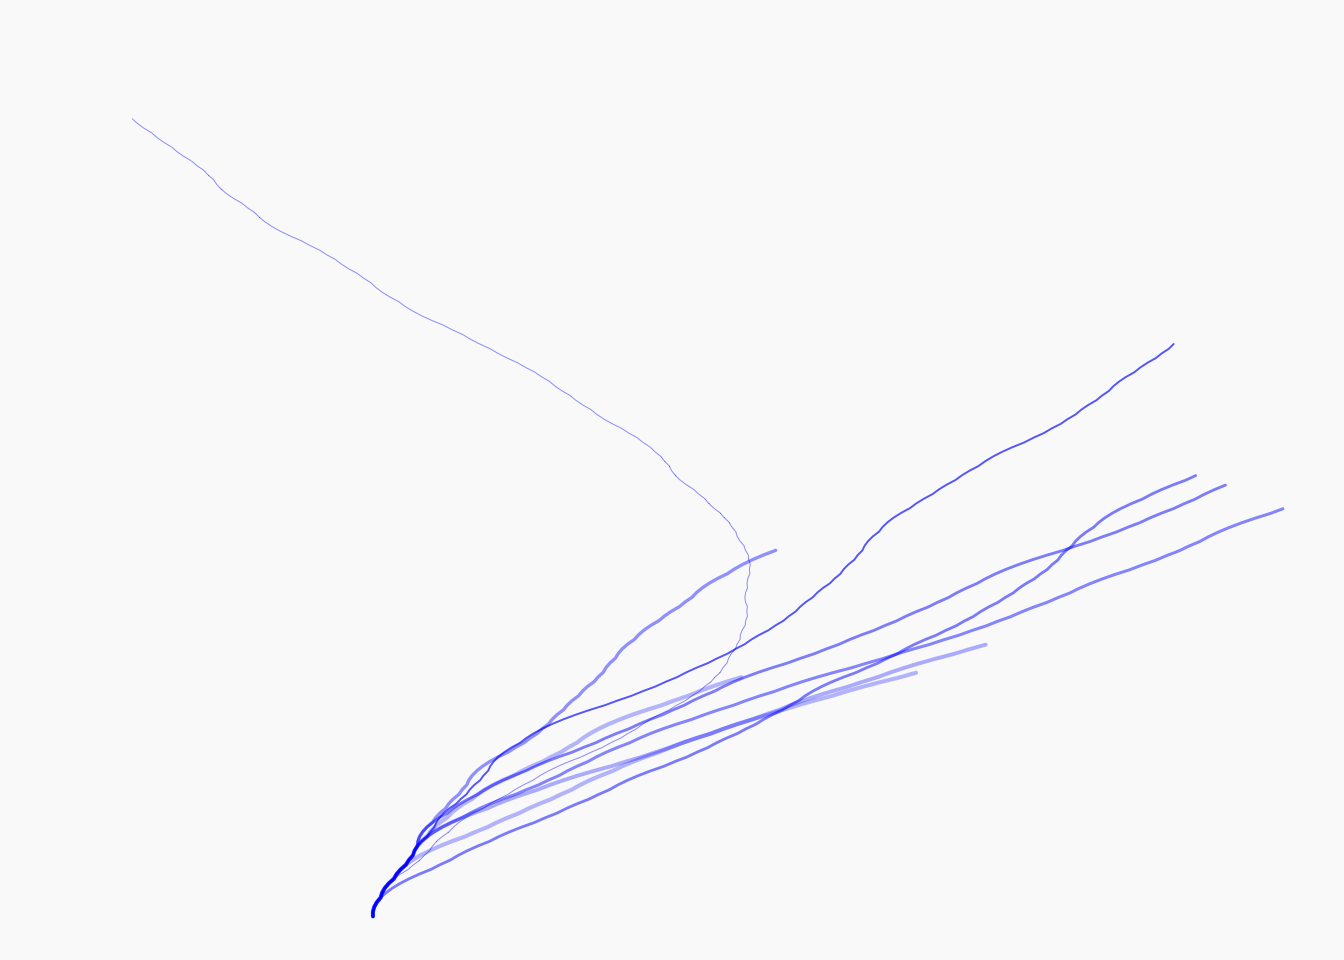
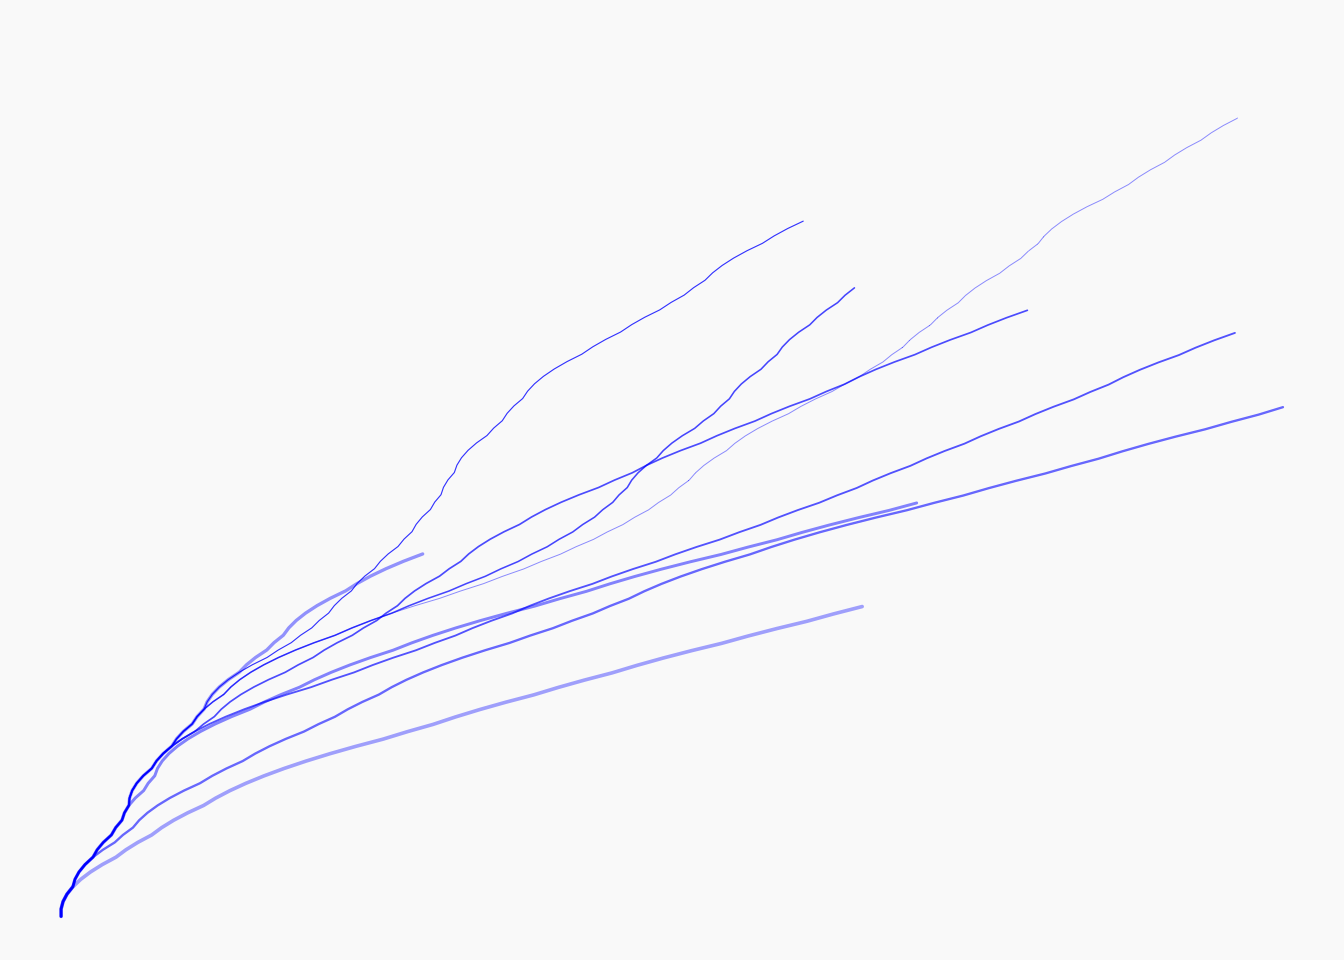
Question 4 complete

diff --git a/homework2st115.html b/homework2st115.html
@@ -179,6 +179,23 @@ pre > code.sourceCode > span > a:first-child::before { text-decoration: underlin
 </div>
 </div>
 </section>
+<section id="question-4" class="level2">
+<h2 class="anchored" data-anchor-id="question-4">Question 4</h2>
+<div class="cell">
+<div class="code-copy-outer-scaffold"><div class="sourceCode cell-code" id="cb6"><pre class="sourceCode r code-with-copy"><code class="sourceCode r"><span id="cb6-1"><a href="#cb6-1" aria-hidden="true" tabindex="-1"></a><span class="fu">canvas_collatz</span>(</span>
+<span id="cb6-2"><a href="#cb6-2" aria-hidden="true" tabindex="-1"></a>  <span class="at">colors =</span> <span class="fu">c</span>(<span class="st">"blue"</span>),</span>
+<span id="cb6-3"><a href="#cb6-3" aria-hidden="true" tabindex="-1"></a>  <span class="at">n =</span> <span class="dv">1</span><span class="sc">:</span><span class="dv">20</span></span>
+<span id="cb6-4"><a href="#cb6-4" aria-hidden="true" tabindex="-1"></a>)</span></code></pre></div><button title="Copy to Clipboard" class="code-copy-button"><i class="bi"></i></button></div>
+<div class="cell-output-display">
+<div>
+<figure class="figure">
+<p><img src="homework2st115_files/figure-html/unnamed-chunk-6-1.png" class="img-fluid figure-img" width="672"></p>
+</figure>
+</div>
+</div>
+</div>
+<p>The drawing here looks different because n is set to 1:20 instead of 10. I don’t think it’s necessary to include set seed here because it starts at 1 and goes to 20 as specified by 1:20.</p>
+</section>
 </section>
 
 </main>
